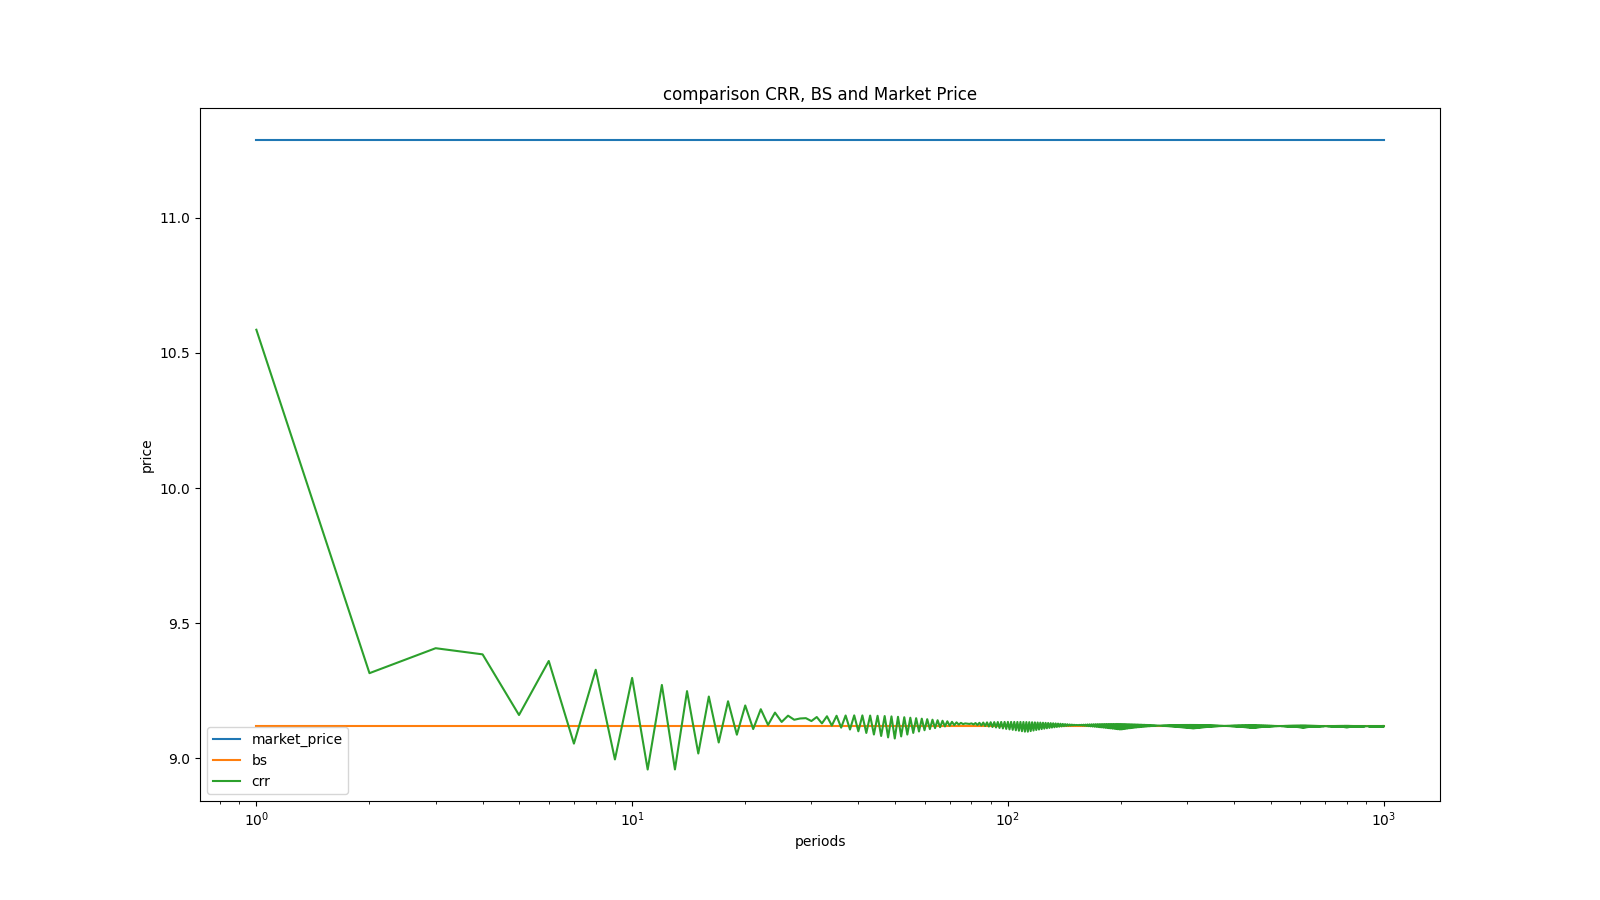
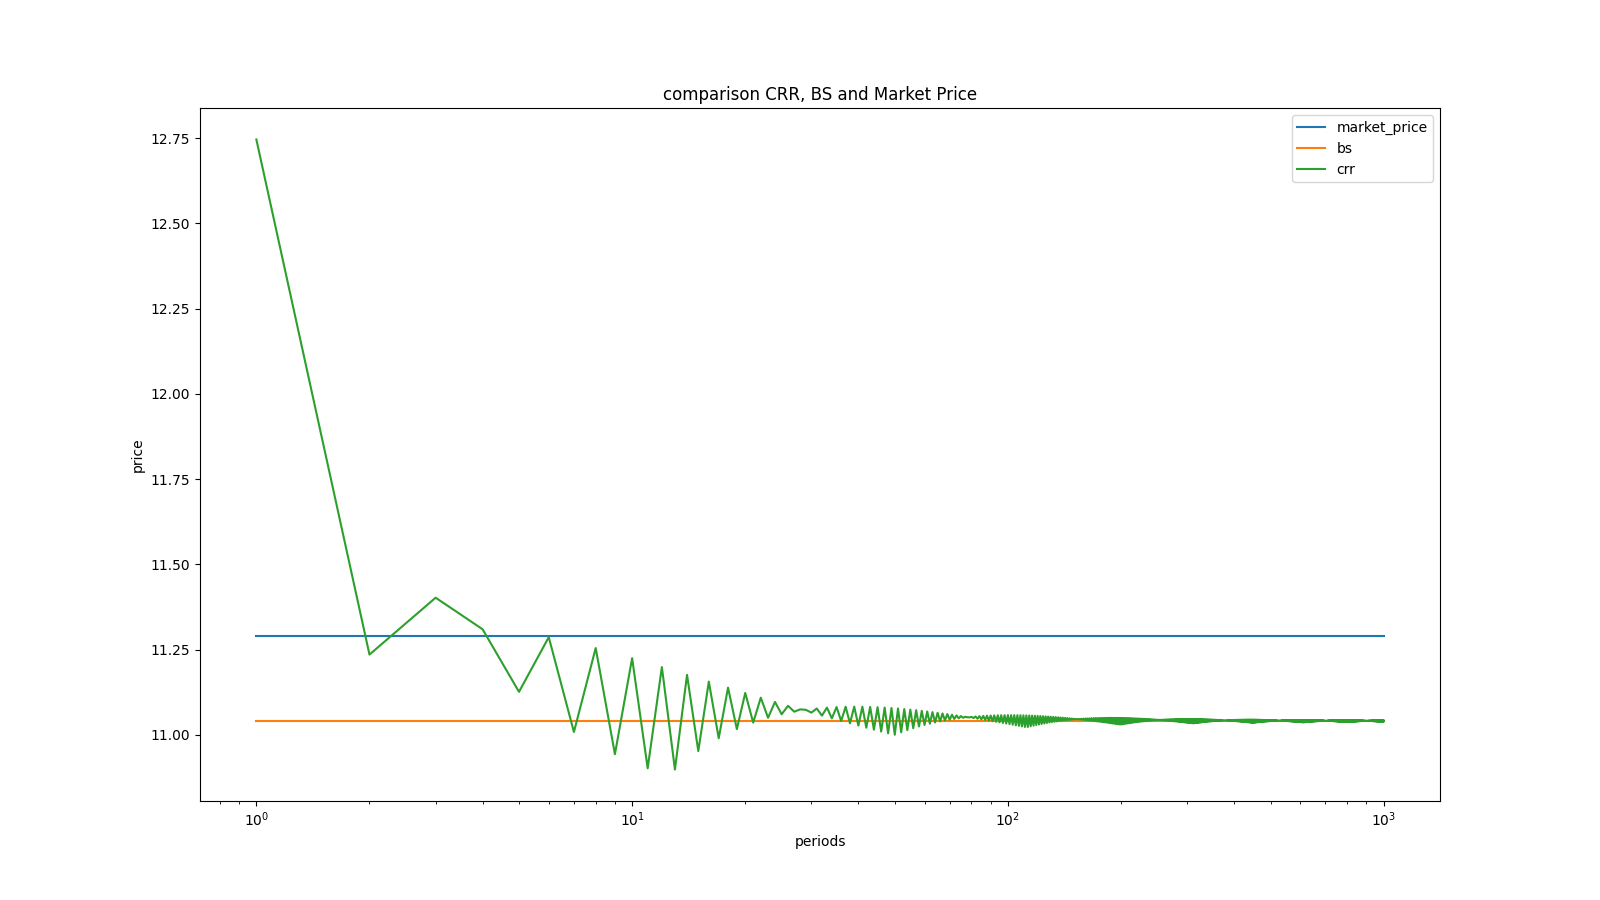
Update params + docs + new plots
- Update params to be consistent to bonus exercise
- added proper documentation to test.py
- created new plots for solution file
- compared results to DerivaGem (Hull; 2019)

diff --git a/test.py b/test.py
@@ -10,7 +10,7 @@ def main():
     Function to test correctness of program and create required plots
     :return: None
     """
-    european_call = Call(s_0=15673.64, K=15100, r=-0.0513, sigma=0.1862, T=0.5, subscription_ratio=0.01)
+    european_call = Call(s_0=15673.64, K=15100, r=-0.00513, sigma=0.1862, T=0.5, subscription_ratio=0.01)
     print(european_call)
 
     time_steps = np.linspace(1, 1000, 1000)
@@ -21,11 +21,17 @@ def main():
     df_option_prices['bs'] = european_call.get_bs()
     df_option_prices['crr'] = df_option_prices.apply(lambda x: european_call.get_crr(x.name), axis=1)
 
+    # c) part
+    print("solutions to c):")
+    print(f"BS: {european_call.get_bs()}")
+    print(f"CRR: {european_call.get_crr(100)}")
+
+    # d) part
     df_option_prices.plot(kind='line', logx=True, figsize=(16, 9), title="comparison CRR, BS and Market Price",
                           xlabel="periods", ylabel="price")
     plt.show()
 
-    print(df_option_prices.head())
+
 
 if __name__ == "__main__":
     main()
